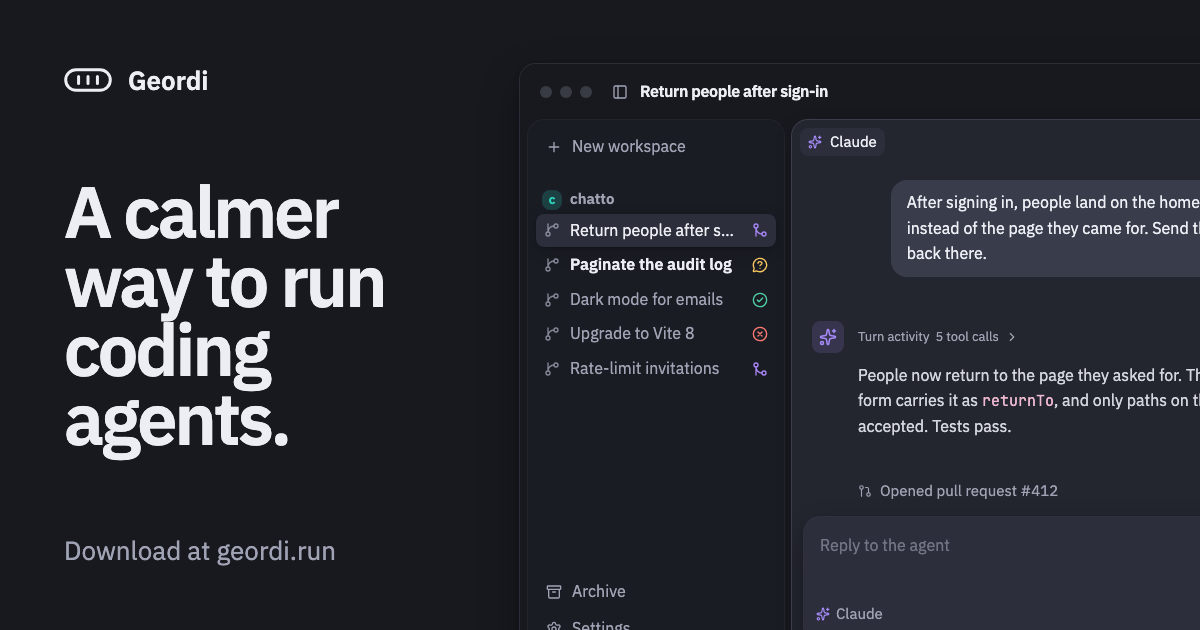
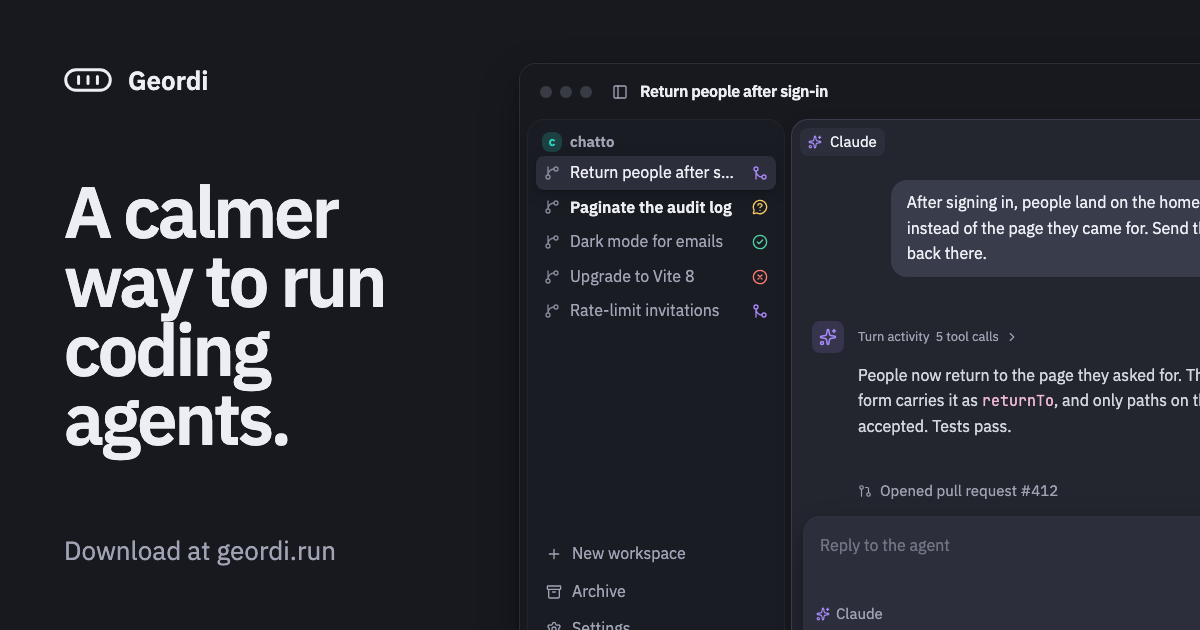
feat: move New workspace above Archive in the sidebar
Follow up on planning item 17f3v.

Changed region(s): [[0.4317, 0.2111, 0.6475, 0.5429], [0.4625, 0.573, 0.6475, 0.6032], [0.4625, 0.8746, 0.5858, 0.9048]]

diff --git a/apps/web/src/lib/components/Sidebar.svelte b/apps/web/src/lib/components/Sidebar.svelte
@@ -298,9 +298,7 @@
 </Dialog>
 
 <div class="flex min-h-0 flex-1 flex-col sheet-quiet select-none">
-	<nav class="flex-1 space-y-6 overflow-y-auto p-2" aria-label="Main">
-		{@render link(resolve('/'), 'icon-[lucide--plus]', 'New workspace', path === '/')}
-
+	<nav class="flex-1 overflow-y-auto p-2" aria-label="Main">
 		<!--
 			Each repository keeps its own space below it, rather than space between them: what
 			slides away takes its space along, and nothing is left to jump when it is gone.
@@ -397,8 +395,9 @@
 		</div>
 	</nav>
 
-	<div class="p-2">
+	<nav aria-label="Workspace navigation" class="p-2">
 		<ConnectionIndicator {lost} class="px-2.5 py-1" />
+		{@render link(resolve('/'), 'icon-[lucide--plus]', 'New workspace', path === '/')}
 		{@render link(resolve('/archive'), 'icon-[lucide--archive]', 'Archive', path === '/archive')}
 		<a
 			href={settingsPath()}
@@ -409,7 +408,7 @@
 			Settings
 			<kbd class="ml-auto font-sans text-xs text-muted">{settingsHint}</kbd>
 		</a>
-	</div>
+	</nav>
 </div>
 
 {#snippet row(

diff --git a/apps/website/src/components/Demo.svelte b/apps/website/src/components/Demo.svelte
@@ -281,11 +281,7 @@
 	<div class="flex h-152 gap-2 px-2 pb-2 sm:h-136">
 		<!-- the sidebar: every workspace, and how its work stands -->
 		<aside class="hidden w-64 shrink-0 flex-col sheet-quiet lg:flex">
-			<div class="flex-1 space-y-5 p-2">
-				<p class="item gap-2.5 px-2.5 py-1.5 text-base">
-					<span class="icon-[lucide--plus] size-4 shrink-0"></span>
-					New workspace
-				</p>
+			<div class="flex-1 p-2">
 				<div>
 					<p class="flex h-7 items-center gap-2 px-1.5 text-sm font-semibold text-muted">
 						<span
@@ -322,6 +318,10 @@
 					</ul>
 				</div>
 			</div>
+			<p class="mx-2 item gap-2.5 px-2.5 py-1.5 text-base">
+				<span class="icon-[lucide--plus] size-4 shrink-0"></span>
+				New workspace
+			</p>
 			<p class="mx-2 item gap-2.5 px-2.5 py-1.5 text-base">
 				<span class="icon-[lucide--archive] size-4 shrink-0"></span>
 				Archive

diff --git a/apps/web/src/lib/components/Sidebar.stories.svelte b/apps/web/src/lib/components/Sidebar.stories.svelte
@@ -245,7 +245,14 @@
 	name="Nothing yet"
 	asChild
 	play={async ({ canvasElement }) => {
-		await expect(within(canvasElement).getByRole('link', { name: 'New workspace' })).toBeVisible();
+		const footer = within(canvasElement).getByRole('navigation', { name: 'Workspace navigation' });
+		const links = within(footer).getAllByRole('link');
+		await expect(links.map((link) => link.getAttribute('href'))).toEqual([
+			'/',
+			'/archive',
+			'/settings/general'
+		]);
+		await expect(links[0]).toHaveAttribute('aria-current', 'page');
 	}}
 >
 	{@render frame(undefined, '/')}

diff --git a/planning/17f3v-remove-overview-pages-and-simplify-sidebar-navigation.md b/planning/17f3v-remove-overview-pages-and-simplify-sidebar-navigation.md
@@ -9,3 +9,5 @@ title: Remove overview pages and simplify sidebar navigation
 Remove the repository issue and pull request pages (h5hb5) and the global Overview. Fold a repository from its name or icon. Place Archive above Settings.
 
 Removed both overview routes and their listing code. Verified the removed URLs return 404 and the repository name folds and expands its workspace list in Chromium.
+
+Moved New workspace into the sidebar footer above Archive and verified that it opens the composer.

diff --git a/.sweet/amber-young-grove.md b/.sweet/amber-young-grove.md
@@ -2,4 +2,4 @@
 type: feature
 ---
 
-Select a repository name or icon to fold or expand its workspaces. Archive is now just above Settings. The global Overview and repository issue and pull request pages have been removed.
+Select a repository name or icon to fold or expand its workspaces. Find New workspace and Archive just above Settings. The global Overview and repository issue and pull request pages have been removed.
